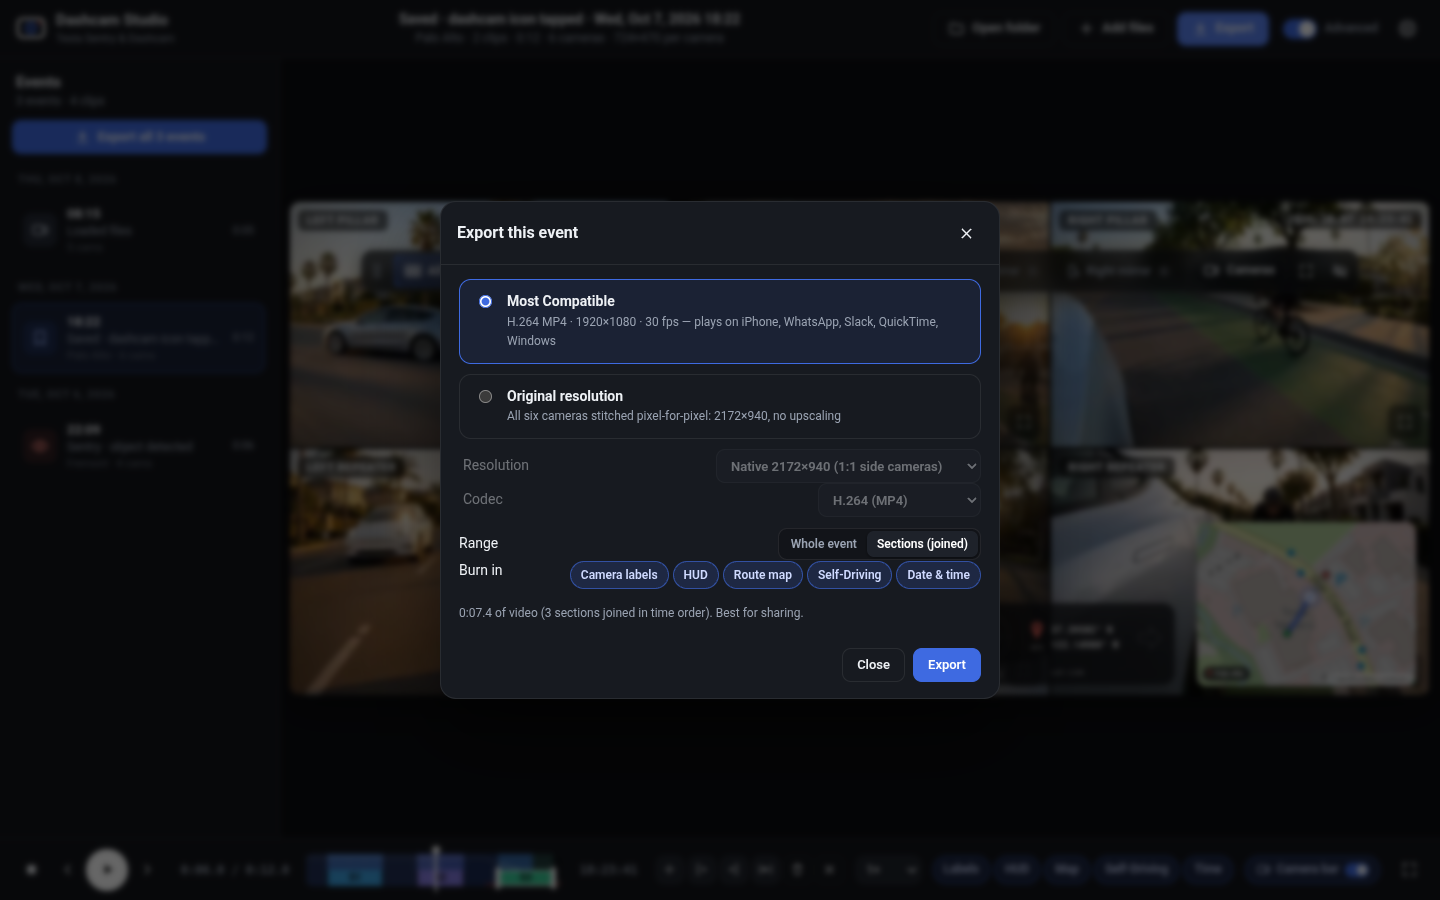
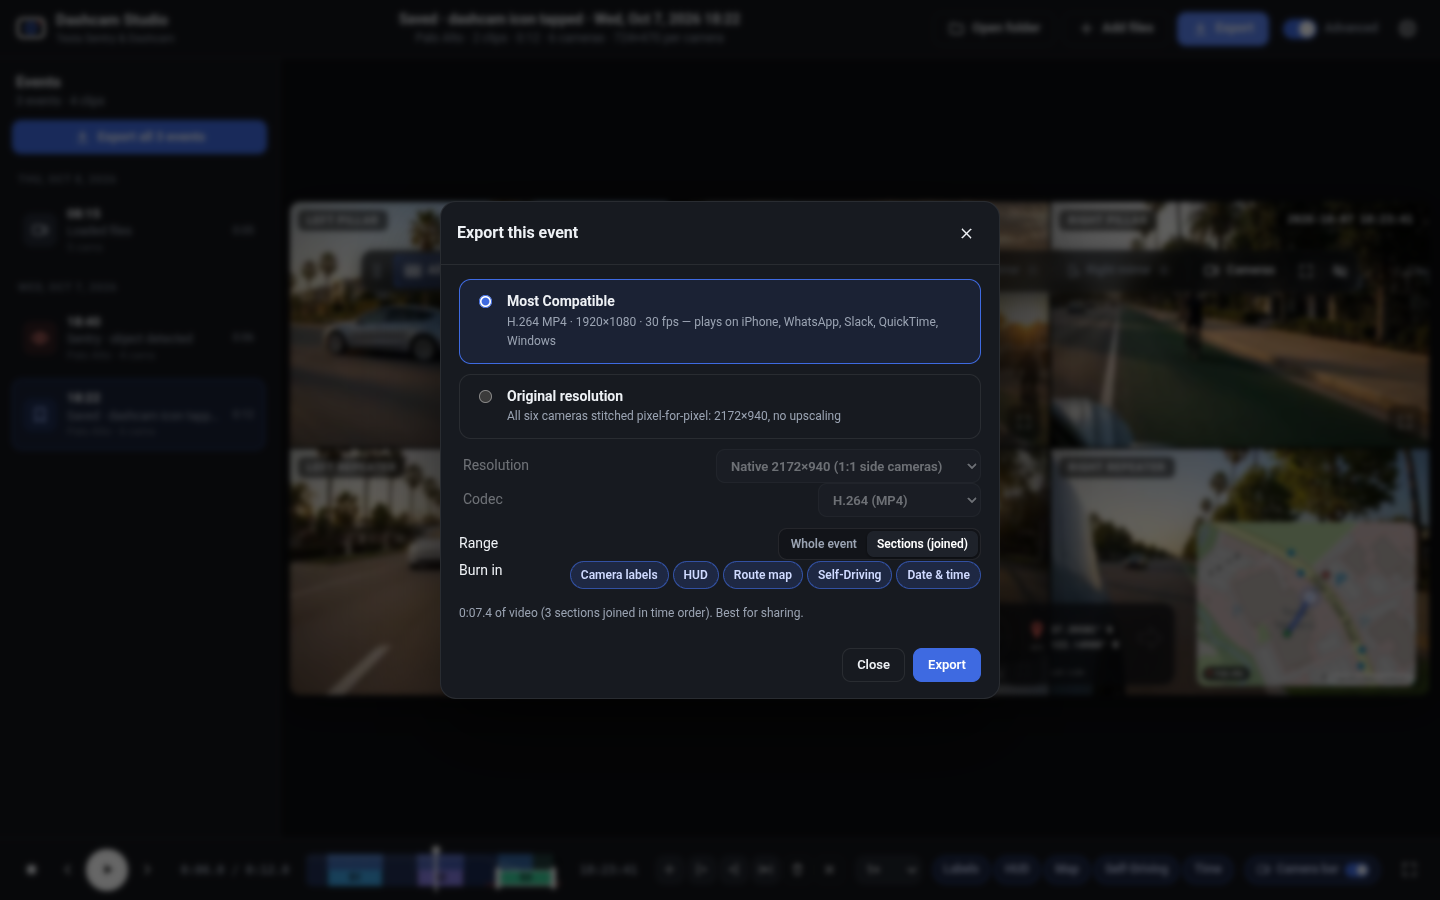
README screenshots: final golden-hour stills (thin body strips on repeaters, golden-hour Sentry with hooded passer-by)

diff --git a/README.md b/README.md
@@ -17,7 +17,7 @@ A Tesla dashcam and Sentry viewer that runs entirely in your browser. Drop in yo
 
 ![Six-camera grid with HUD, route map and Self-Driving badge, mid lane change with the left blinker on](screenshots/photo-grid.png)
 
-![Sentry event at night: a hooded passer-by on the right repeater](screenshots/photo-sentry.png)
+![Sentry event at golden hour: a hooded passer-by on the right repeater](screenshots/photo-sentry.png)
 
 <details>
 <summary>More screenshots</summary>
